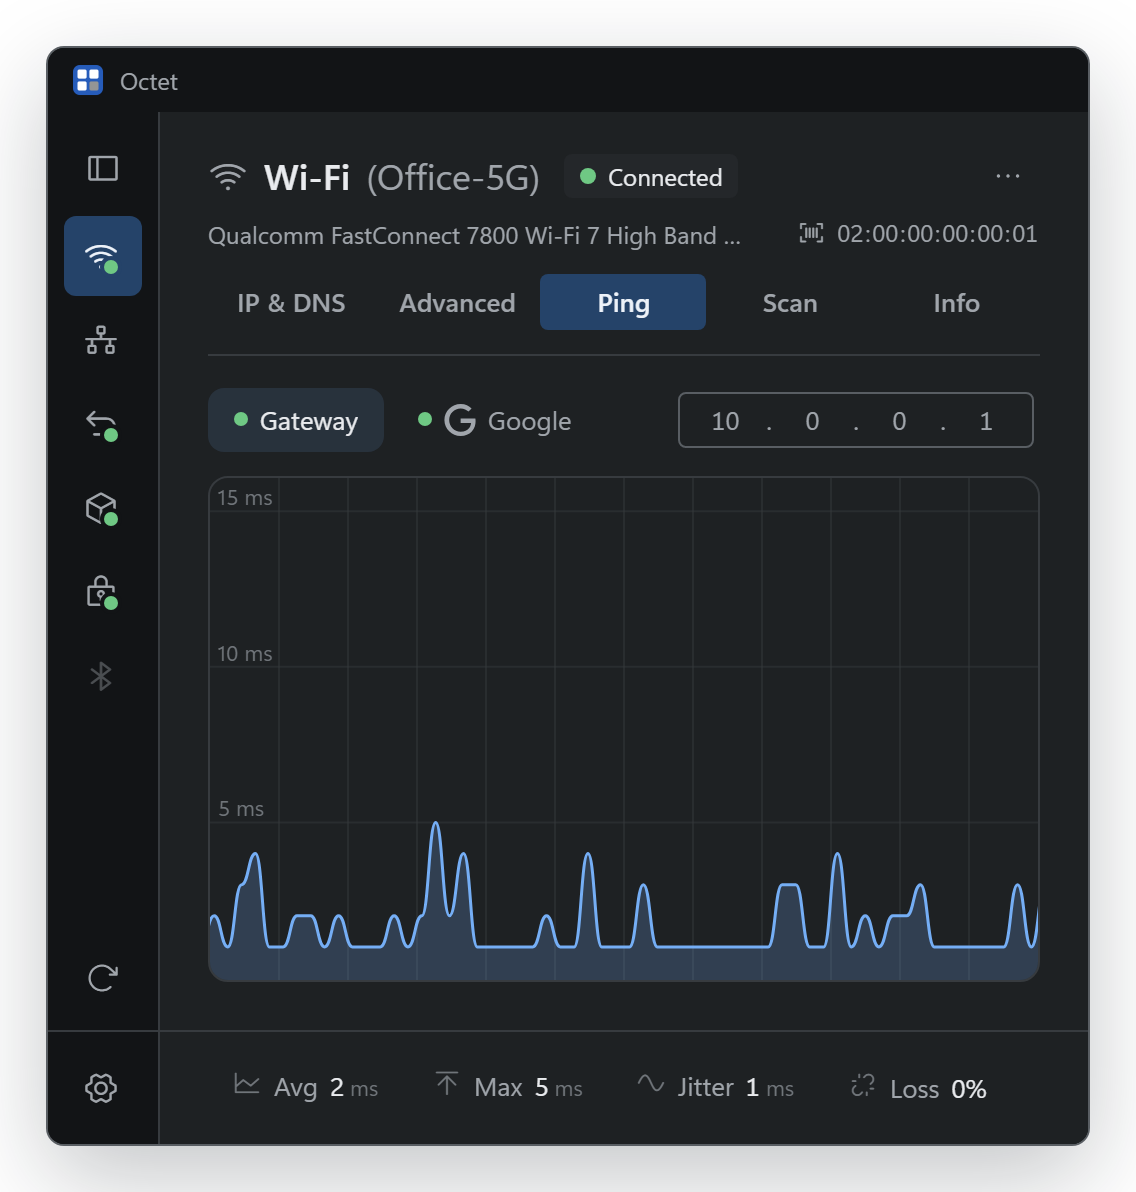
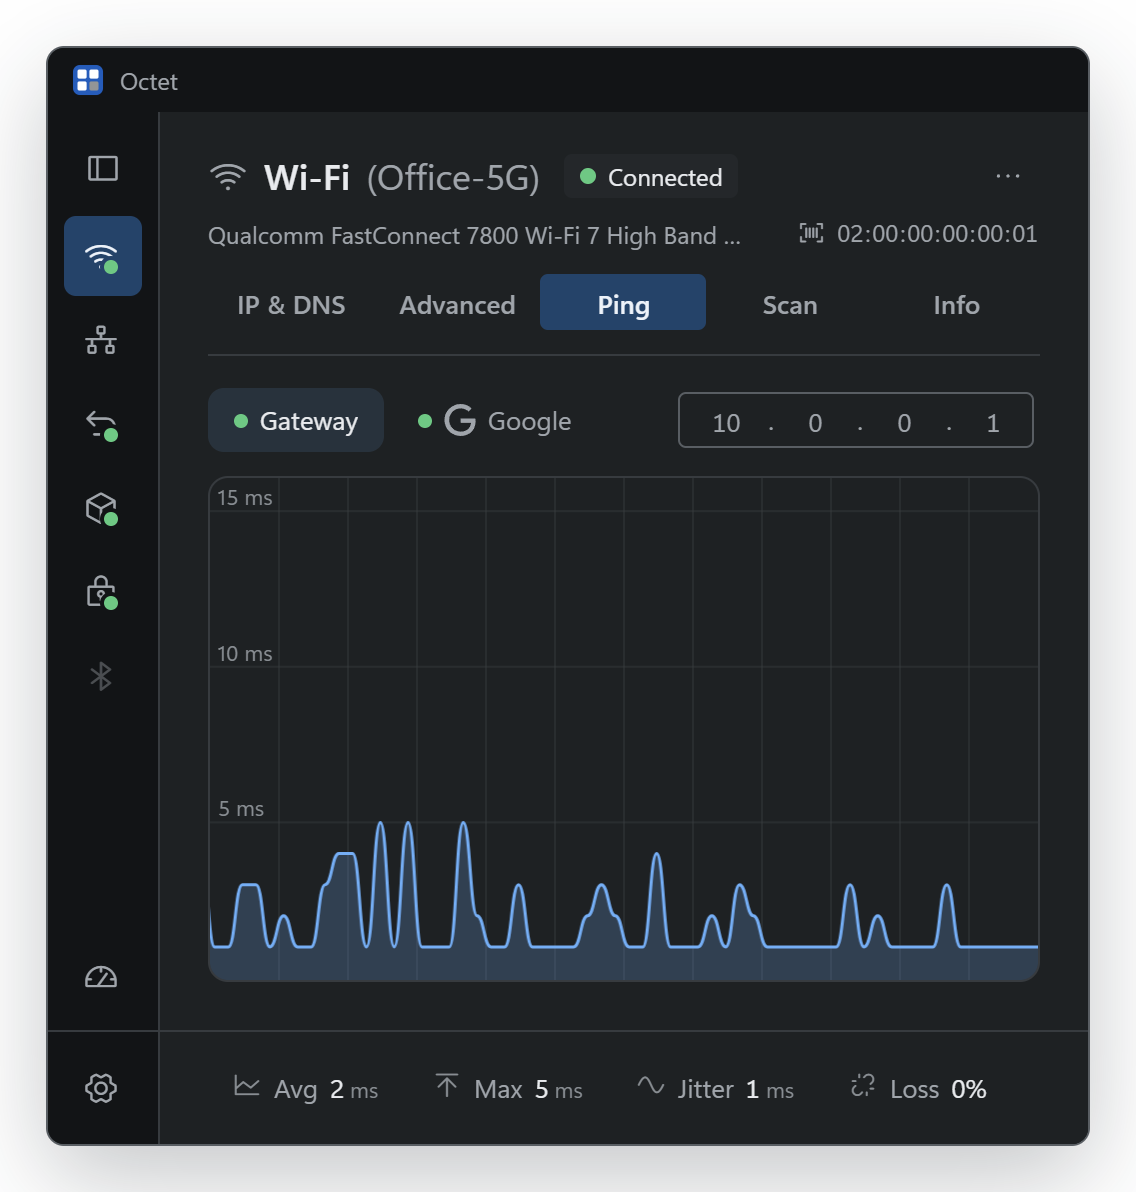
README: fresh screenshots, and the speed test below the grid
The old ones were from before 0.2.0: the sidebar still had the refresh button where the speed test is now.

diff --git a/README.md b/README.md
@@ -47,6 +47,13 @@ A fast, modern take on [Simple IP Config](https://github.com/KurtisLiggett/Simpl
 <sub>Everything about the adapter, one click to copy</sub><br><br>
 </td>
 </tr>
+<tr>
+<td colspan="2" align="center">
+<img src="assets/speed.png" width="440" alt="Speed test: the needle at 85 Mbps mid-download, with latency bars either side"><br>
+<b>Speed test</b><br>
+<sub>Download, upload and latency under load, out this adapter</sub><br><br>
+</td>
+</tr>
 </table>
 
 - Follows the system: cable, Wi-Fi and address changes show up on their own.
